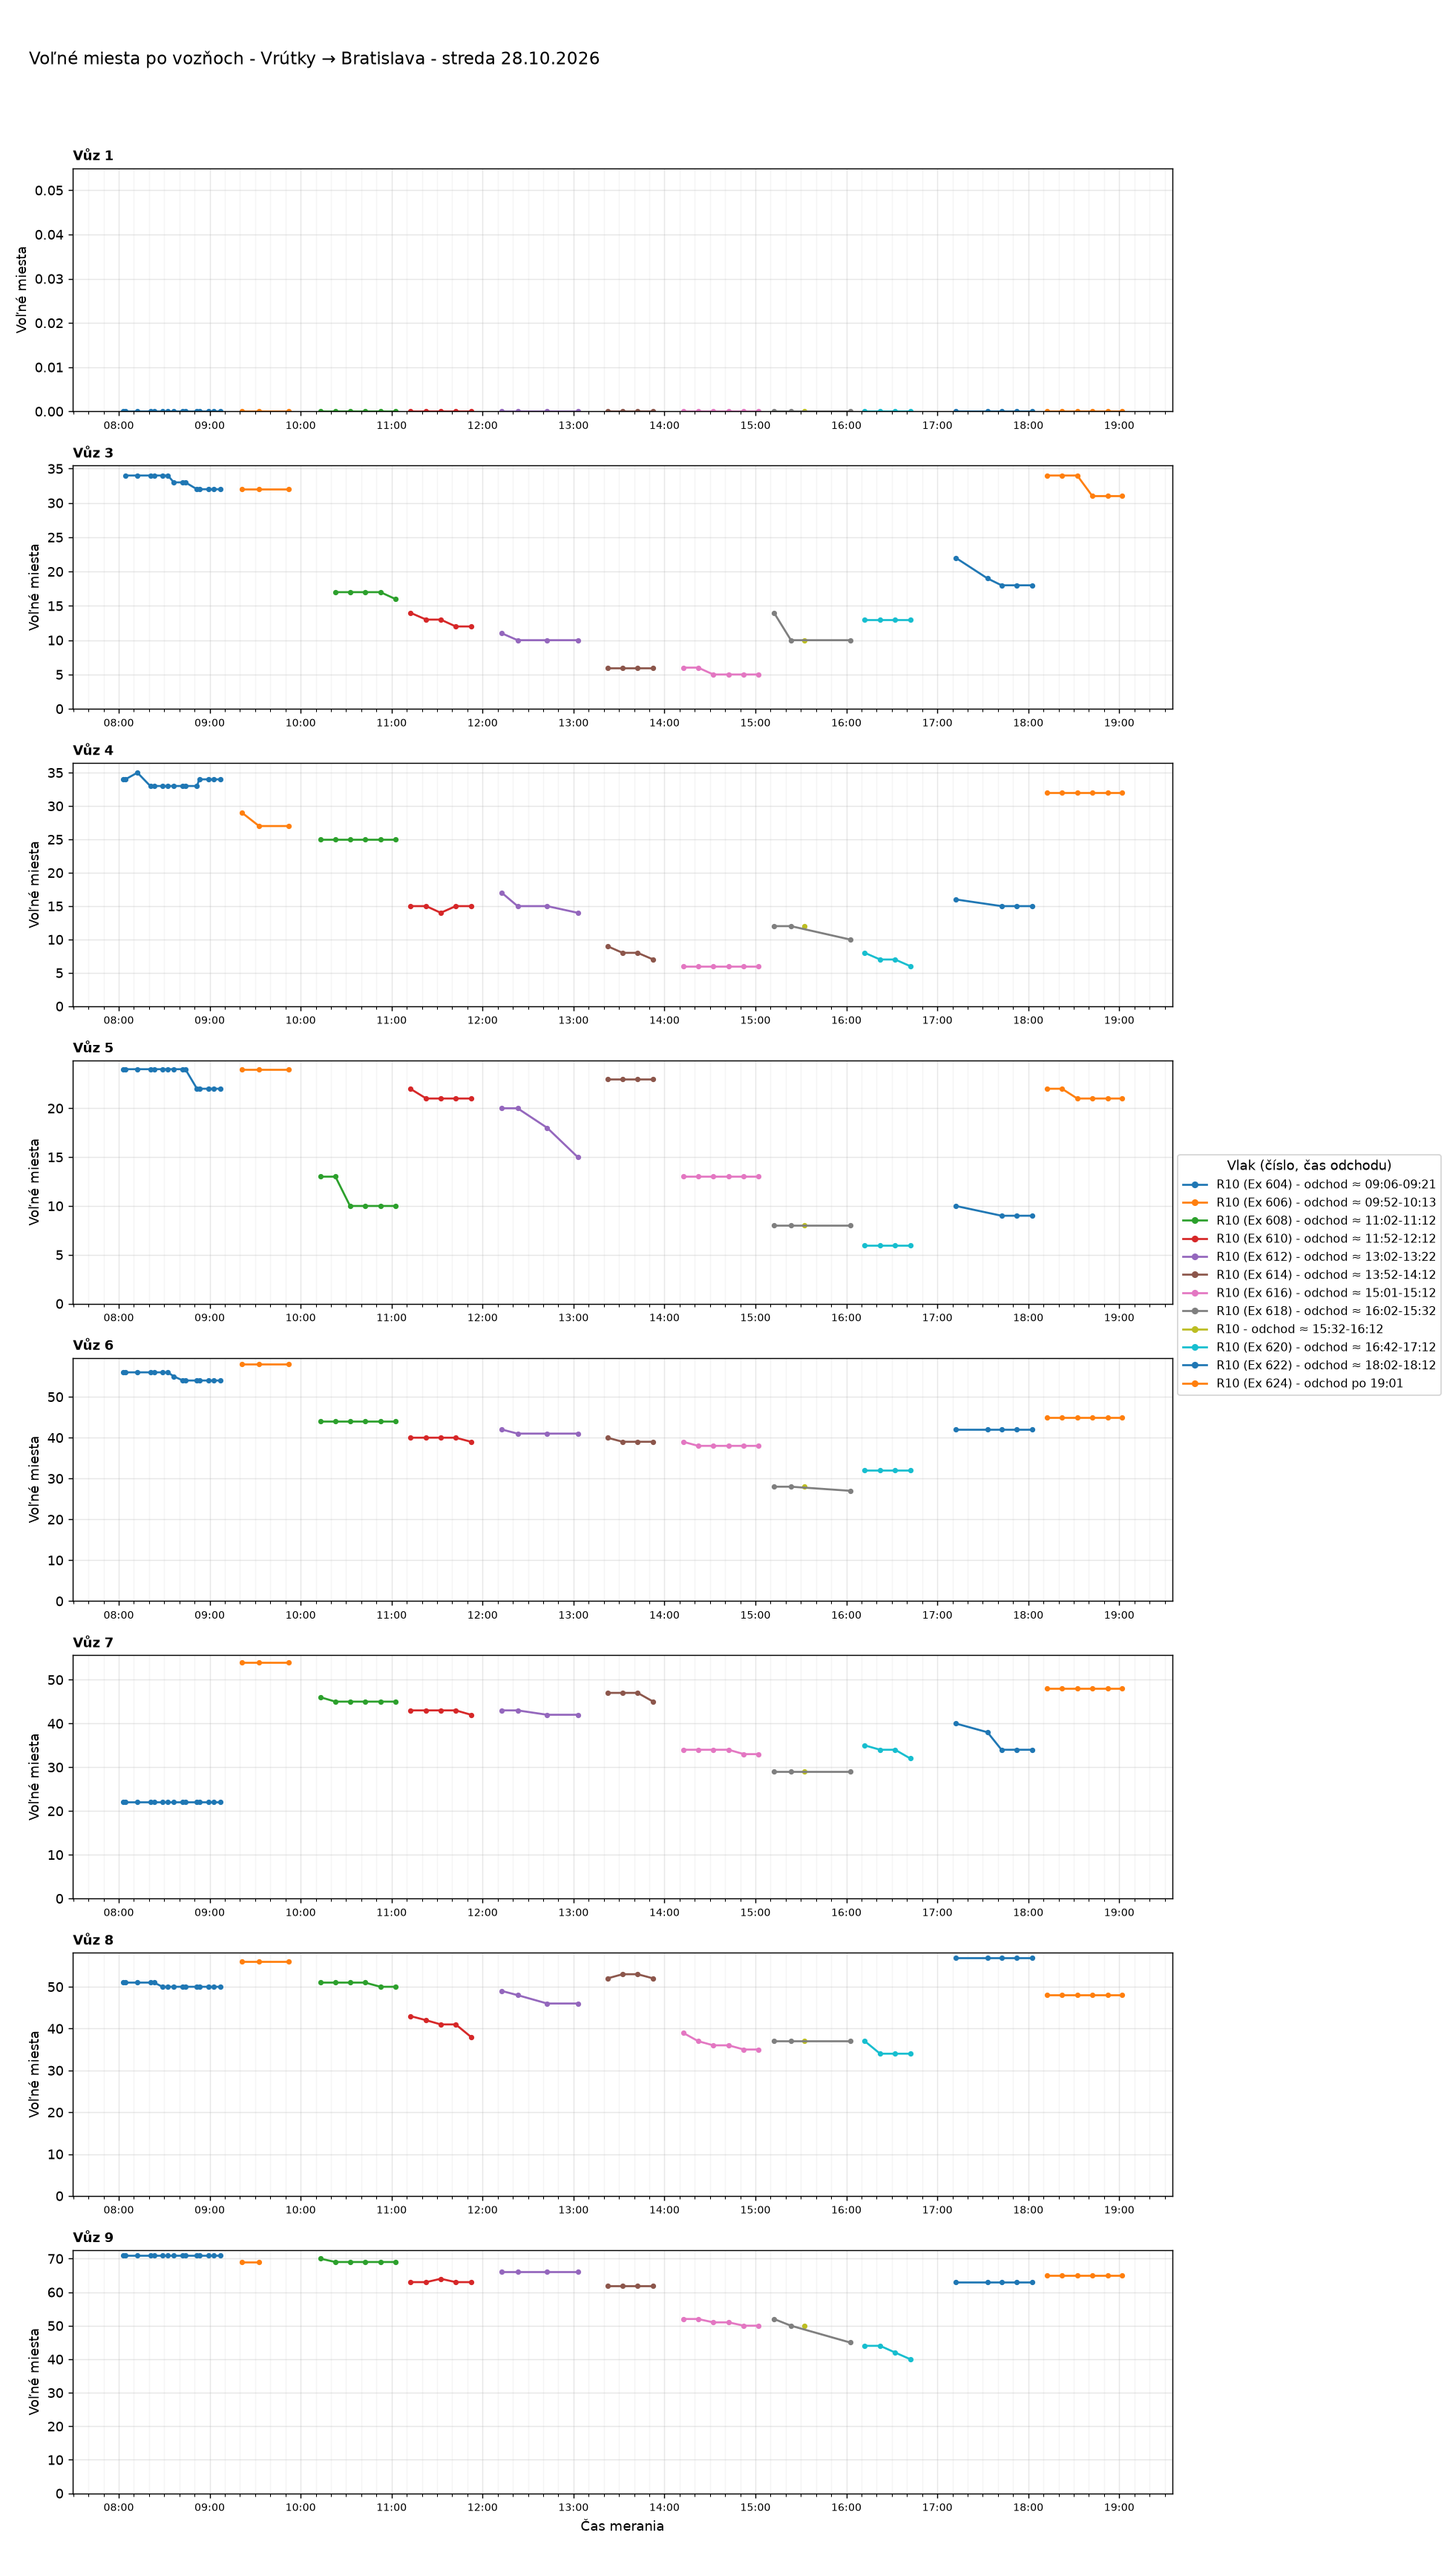
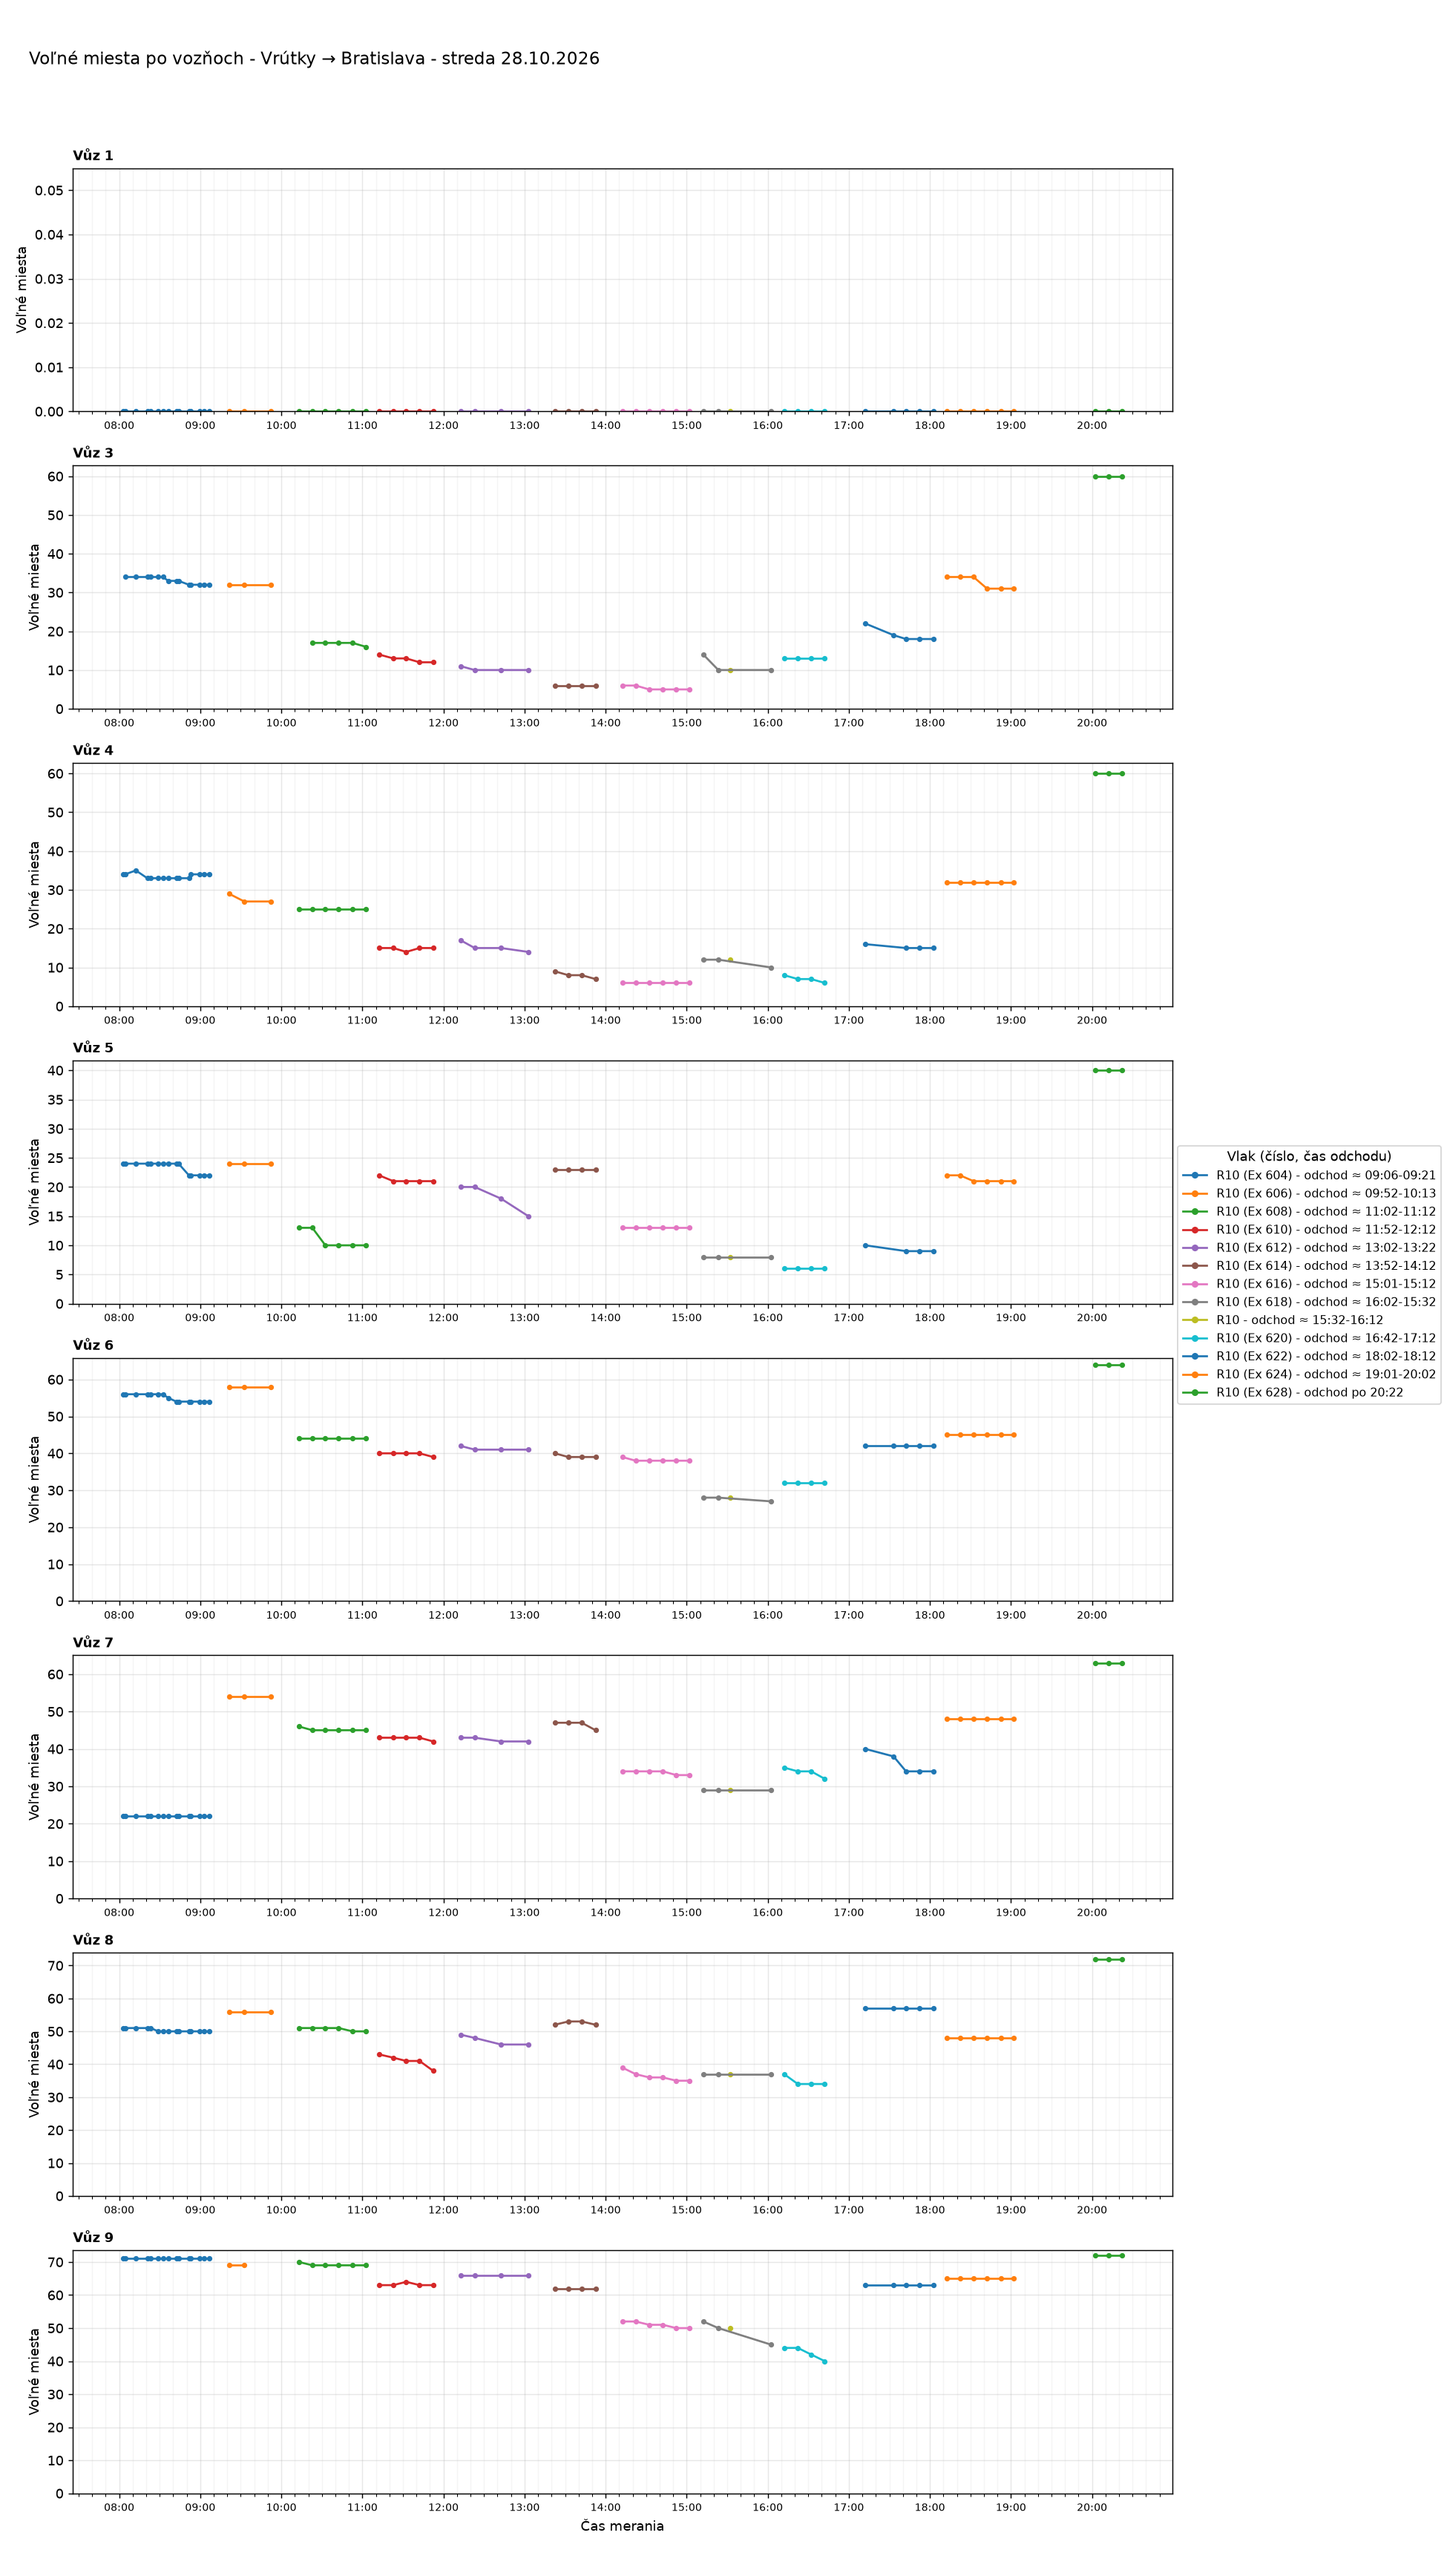
Aktualizácia grafov 2026-10-28 21:01

diff --git a/index.html b/index.html
@@ -37,7 +37,7 @@ details.trasa>summary{cursor:pointer;font-weight:600;font-size:1.1rem;padding:8p
 <body>
 <main>
 <h1>Voľné miesta vo vlakoch</h1>
-<p class="muted">Posledné meranie: 28.10.2026 19:11 ·
+<p class="muted">Posledné meranie: 28.10.2026 20:22 ·
 <a href="data/obsadenost_data.csv">stiahnuť dáta (CSV)</a></p>
 <nav class="nav"><a href="#suhrn">Súhrn</a><a href="#statistiky">Štatistiky</a><a href="#historia">História grafov</a></nav>
 
@@ -46,8 +46,8 @@ details.trasa>summary{cursor:pointer;font-weight:600;font-size:1.1rem;padding:8p
 <div class="tablewrap"><table>
 <thead><tr><th>Deň</th><th>Trasa</th><th>Meraní</th><th>Vlakov</th><th>Čas meraní</th></tr></thead>
 <tbody>
-<tr><td><a href="#dBA-VR-2026-10-28">streda 28.10.2026</a></td><td>Bratislava → Vrútky</td><td>143</td><td>15</td><td>00:03-19:11</td></tr>
-<tr><td><a href="#dVR-BA-2026-10-28">streda 28.10.2026</a></td><td>Vrútky → Bratislava</td><td>62</td><td>12</td><td>08:02-19:01</td></tr>
+<tr><td><a href="#dBA-VR-2026-10-28">streda 28.10.2026</a></td><td>Bratislava → Vrútky</td><td>145</td><td>16</td><td>00:03-20:11</td></tr>
+<tr><td><a href="#dVR-BA-2026-10-28">streda 28.10.2026</a></td><td>Vrútky → Bratislava</td><td>65</td><td>13</td><td>08:02-20:22</td></tr>
 <tr><td><a href="#dBA-KE-2026-10-28">streda 28.10.2026</a></td><td>Bratislava → Košice</td><td>61</td><td>11</td><td>07:46-18:13</td></tr>
 <tr><td><a href="#dKE-BA-2026-10-28">streda 28.10.2026</a></td><td>Košice → Bratislava</td><td>52</td><td>10</td><td>07:47-18:03</td></tr>
 <tr><td><a href="#dBA-VR-2026-10-27">utorok 27.10.2026</a></td><td>Bratislava → Vrútky</td><td>99</td><td>11</td><td>00:01-23:59</td></tr>
